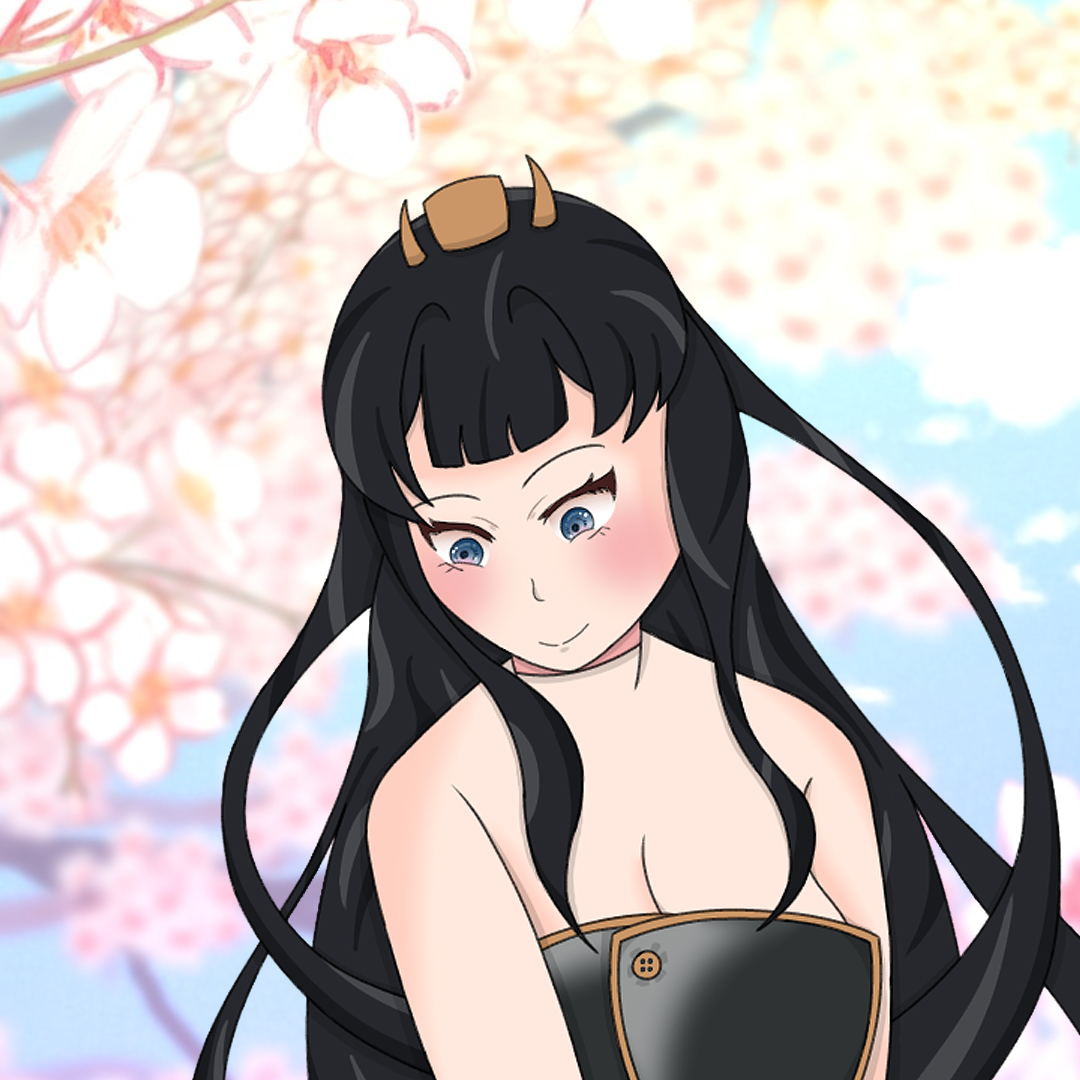
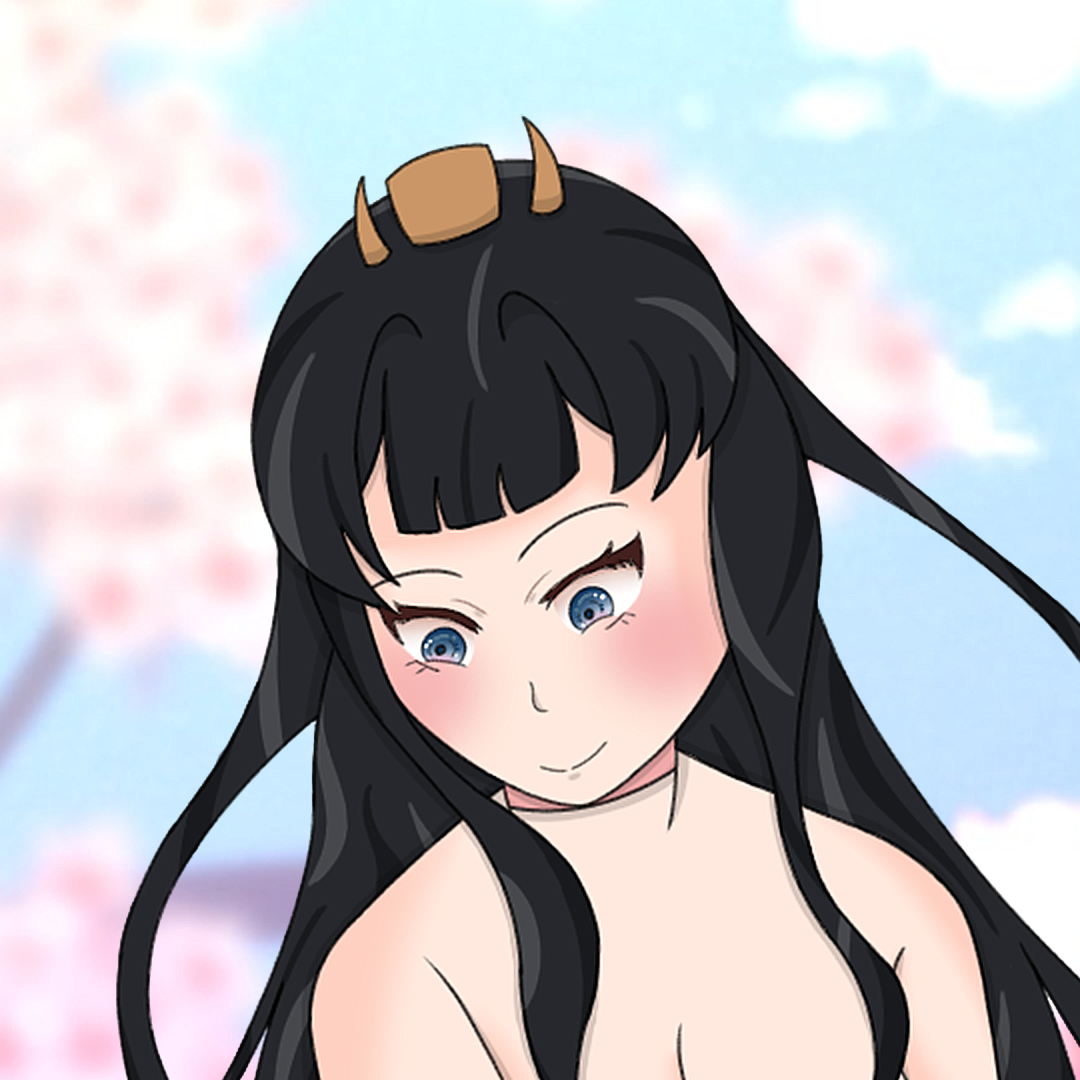
pfp update, and some rewording on CSM

diff --git a/assets/frameworks/js/index.js b/assets/frameworks/js/index.js
@@ -249,9 +249,9 @@ function mariaProfile(num) {
               <br>
               <div class="vtmSocials" HinaOujo>
                 <i class="bi bi-globe" title="website" onclick="{ window.open('https://thebelovedmoon.github.io/hinaoujo'); }"></i>
-                <i class="bi bi-twitter-x" title="X" onclick="{ window.open('https://x.com/HinaSukii'); }"></i>
+                <!-- <i class="bi bi-twitter-x" title="X" onclick="{ window.open('https://x.com/HinaSukii'); }"></i> -->
                 <i class="bi bi-youtube" title="youtube" onclick="{ window.open('https://youtube.com/@HinaSukii'); }"></i>
-                <i class="bi bi-twitch" title="twitch" onclick="{ window.open('https://twitch.tv/HinaSukii'); }"></i>
+                <!-- <i class="bi bi-twitch" title="twitch" onclick="{ window.open('https://twitch.tv/HinaSukii'); }"></i> -->
                 <i class="bi bi-reddit" title="reddit" onclick="{ window.open('https://reddit.com/user/HinaOujo'); }"></i>
                 <i class="bi bi-envelope-at-fill" title="email" onclick="{ window.open('mailto:hinaxsukii@gmail.com'); }"></i>
               </div>

diff --git a/cosmaria.html b/cosmaria.html
@@ -418,11 +418,11 @@
           </div>
         </div>
         <div style="width: 100%; height: calc(15rem - calc(15rem / 3));"></div> <!-- spacer -->
-        <h1>Mistresses of the CosMarias👙</h1>
+        <h1>Mistresses of CSM👙</h1>
         <br>
         <p>
-          this new sub-unit encompasses the same essence as the rest of the CosMarias,
-          with a major focus on their "dark and adult" side.
+          this new sub-unit encompasses the same essence as the rest of CosMarias, with
+          a major focus on their "dark and adult" side.
         </p>
         <br><br>
         <div csmMistresses class="csmLineup">
